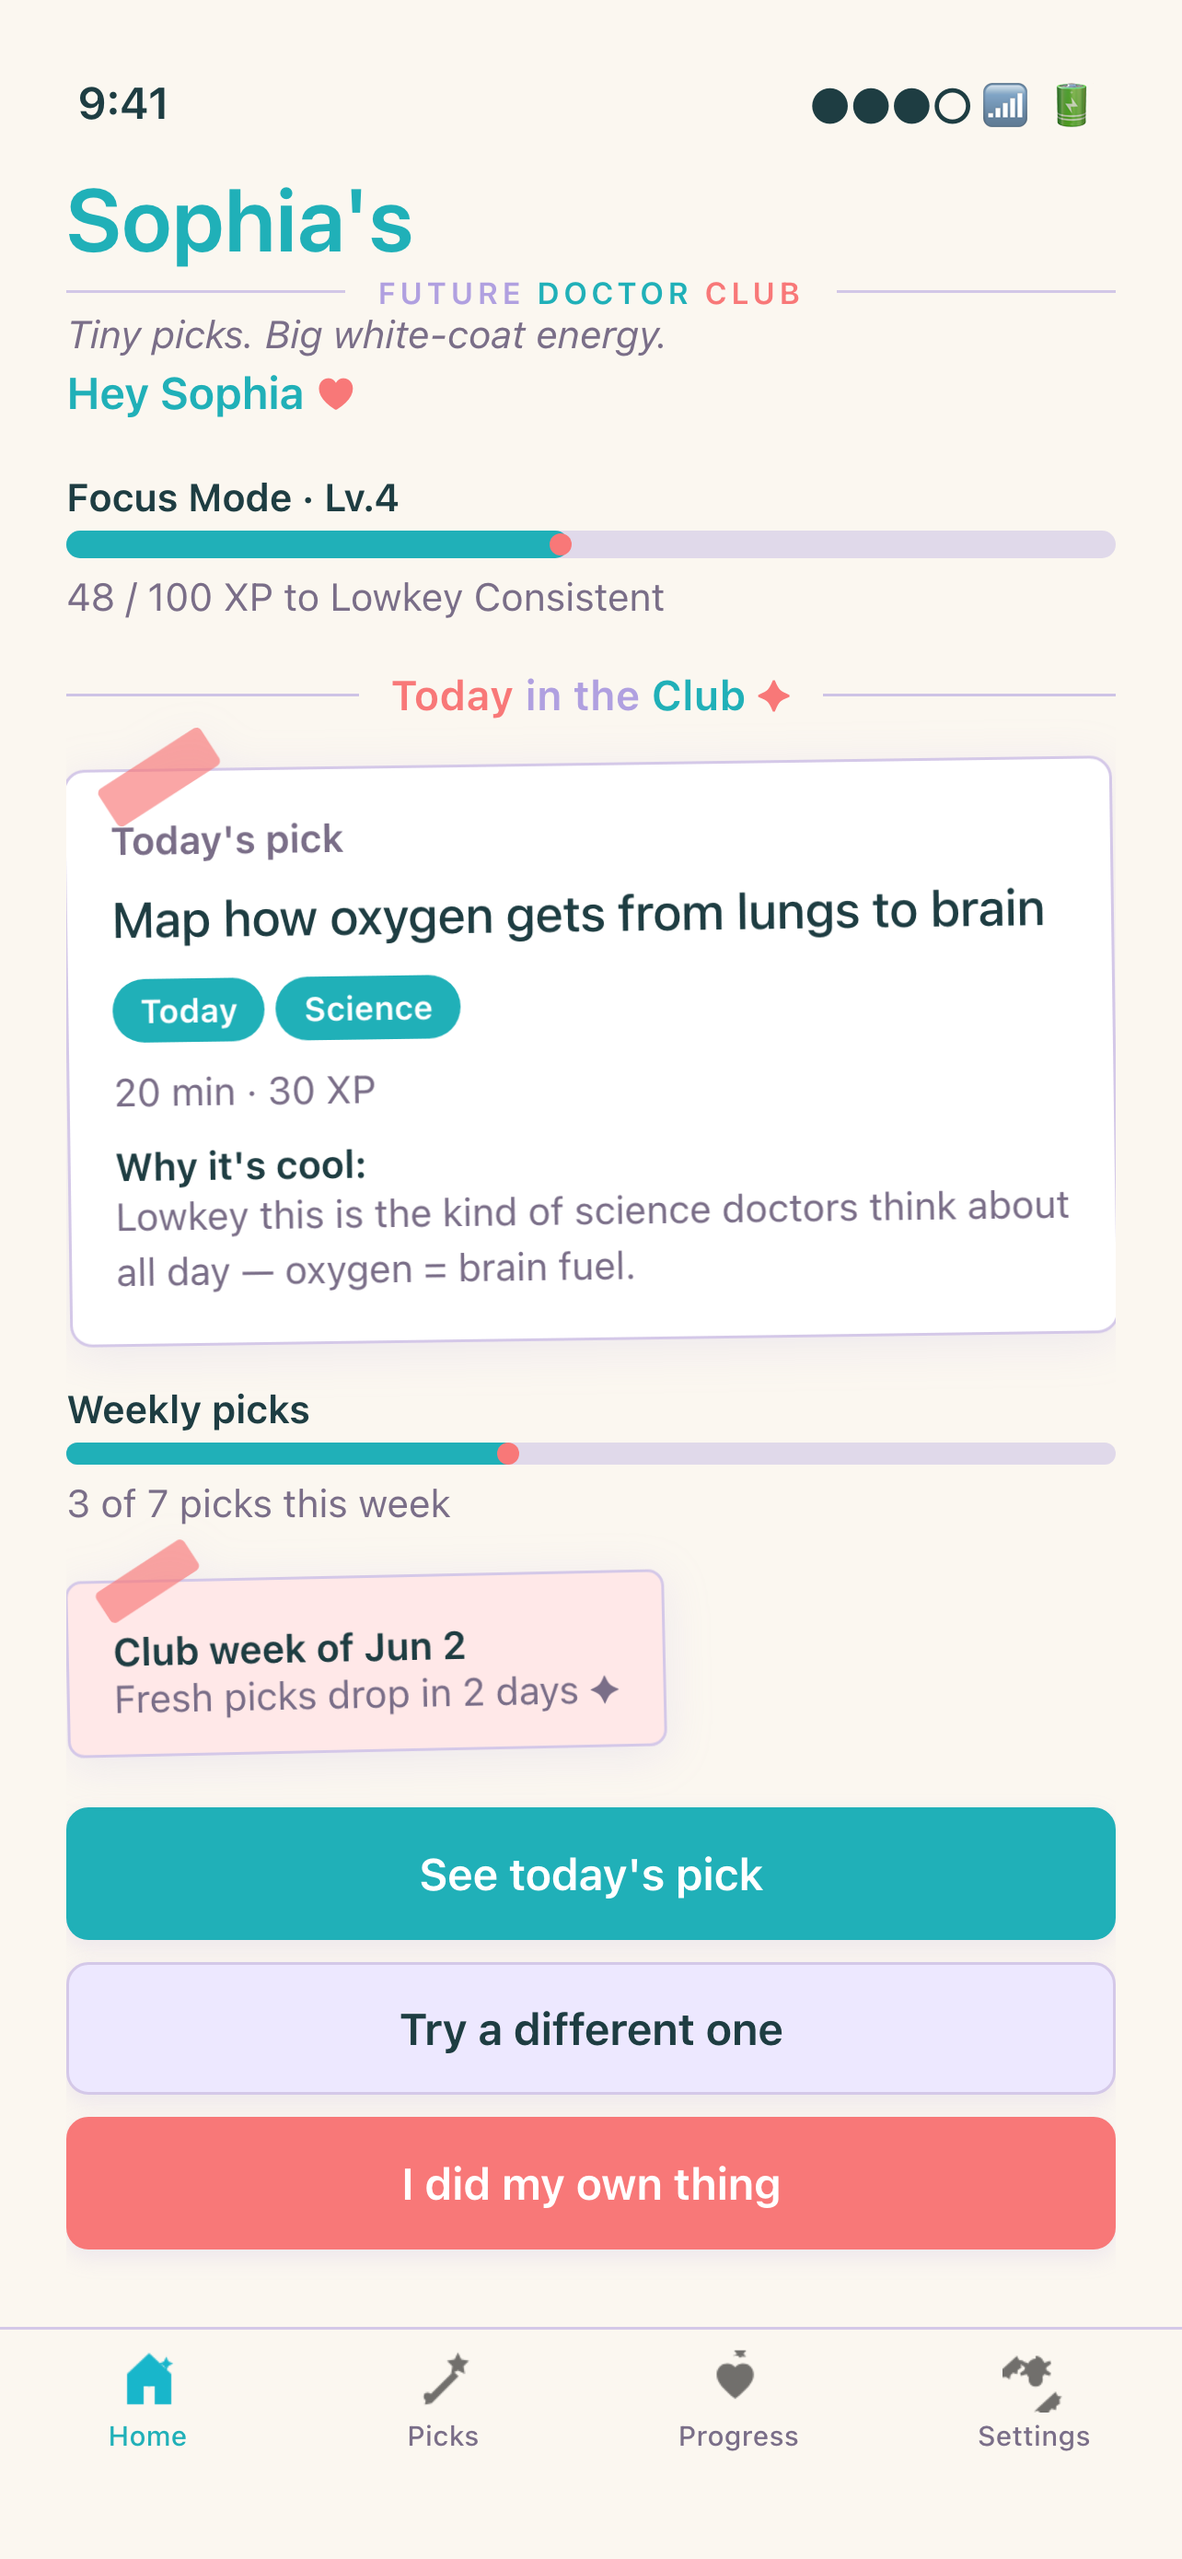
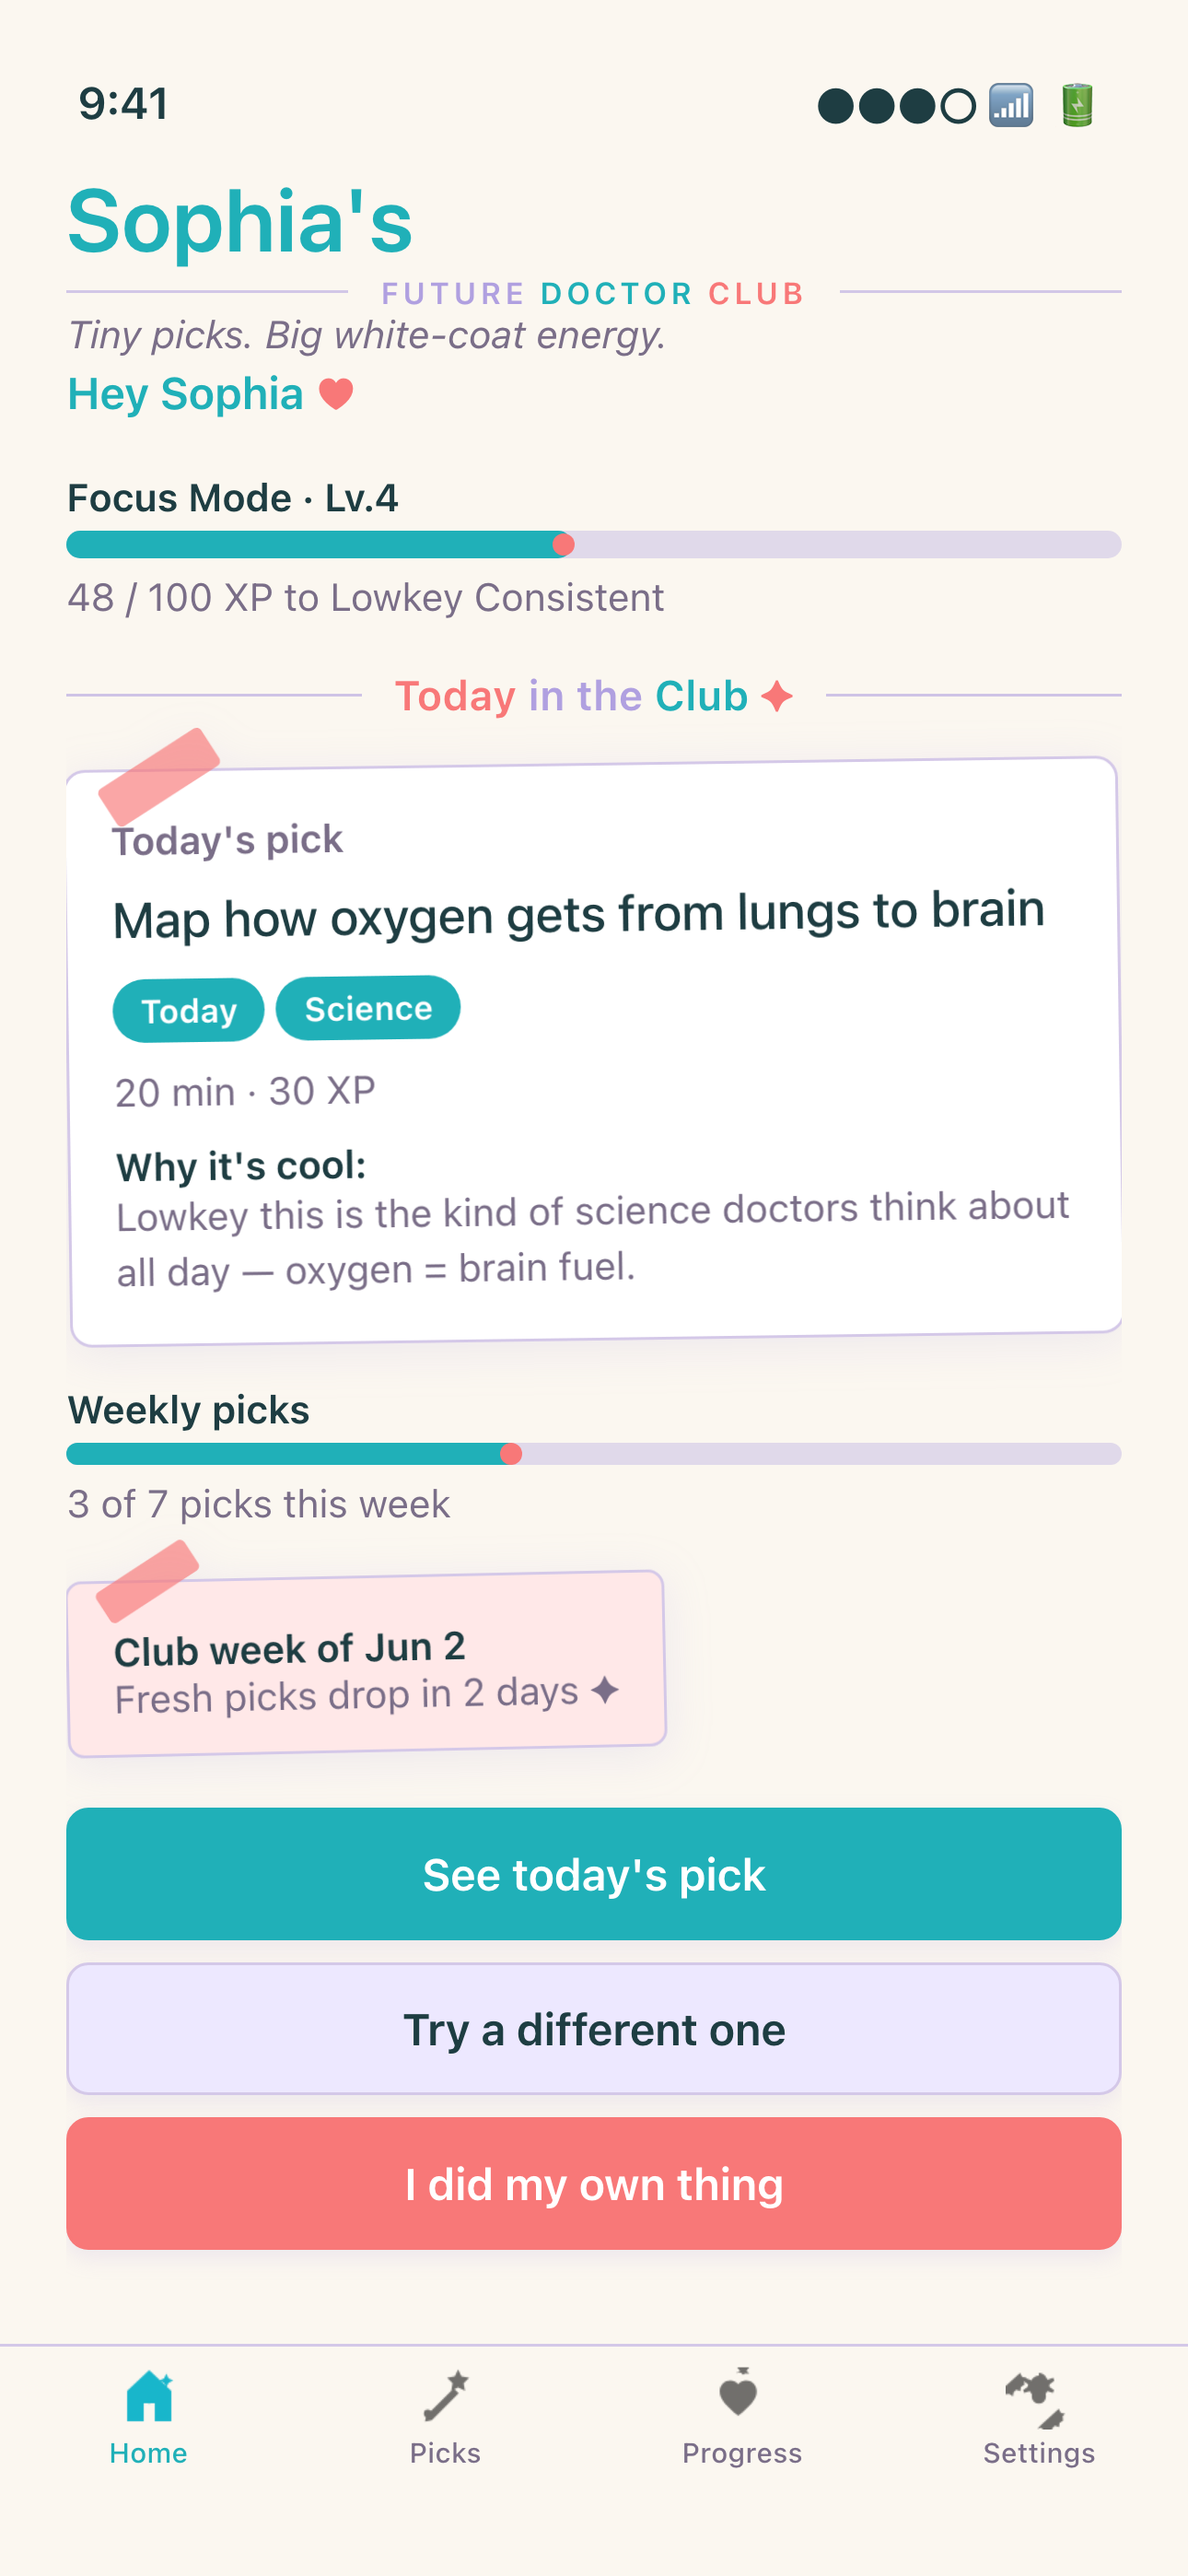
added new projects

diff --git a/src/app/projects/page.tsx b/src/app/projects/page.tsx
@@ -78,6 +78,72 @@ const projectsData = [
     github: "https://github.com/alexandercannon/eurovision.fun",
     live: "https://www.eurovision.fun",
     category: "Mobile"
+  },
+  {
+    id: 8,
+    title: "Sophia's Future Doctor Club",
+    description:
+      "Educational habit-building for aspiring future doctors — weekly picks, club notes, badges, and streaks, all on-device.",
+    tags: ["React Native", "Expo", "SQLite", "Education"],
+    image: "/images/sophias-future-doctor-club.png",
+    github: null,
+    live: "https://apps.apple.com/us/app/sophias-future-doctor-club/id6777174145",
+    category: "Mobile"
+  },
+  {
+    id: 9,
+    title: "VOLUME",
+    description:
+      "A reading companion — log sessions, curate your shelf, and keep streaks without losing the joy of the page.",
+    tags: ["React Native", "Expo", "Supabase", "iOS", "Android"],
+    image: "/images/volume-app.png",
+    github: "https://github.com/AlexanderCannon/volume-reading",
+    live: "https://apps.apple.com/us/app/volume-books/id6769268426",
+    category: "Mobile"
+  },
+  {
+    id: 10,
+    title: "Honey Do",
+    description:
+      "Family planner with shared calendars, assigned tasks, role-based access, and a points system for kids.",
+    tags: ["React Native", "Expo", "Firebase", "Family"],
+    image: "/images/honey-do.png",
+    github: "https://github.com/AlexanderCannon/honey-do-app",
+    live: null,
+    category: "Mobile"
+  },
+  {
+    id: 11,
+    title: "lllanguage",
+    description:
+      "Language learning where real communication generates the curriculum — speak, capture gaps, and reuse what you need.",
+    tags: ["React Native", "Expo", "LLM", "Supabase"],
+    image: "/images/lllanguage.png",
+    github: "https://github.com/AlexanderCannon/lllanguage-web",
+    live: "https://lllanguage.com/",
+    category: "Mobile"
+  },
+  {
+    id: 12,
+    title: "PathRanger",
+    description:
+      "Rust CLI that tracks frequent directories, bookmarks with tags, and fuzzy-jumps you where you actually work.",
+    tags: ["Rust", "CLI", "Shell"],
+    image: "/images/pathranger.png",
+    github: "https://github.com/AlexanderCannon/pathranger",
+    live: null,
+    category: "Developer Tools"
+  },
+  {
+    id: 13,
+    title: "CacheClip",
+    description:
+      "Lightweight Rust clipboard history manager — silent capture, fuzzy search, and instant restore from the terminal.",
+    tags: ["Rust", "CLI", "Clipboard"],
+    image: "/images/cacheclip.png",
+    github: "https://github.com/AlexanderCannon/cacheclip",
+    live: "https://github.com/AlexanderCannon/cacheclip/releases",
+    category: "Developer Tools"
   }
 ];
 

diff --git a/src/app/volume-app/layout.tsx b/src/app/volume-app/layout.tsx
@@ -34,6 +34,9 @@ export default function VolumeAppLayout({ children }: { children: React.ReactNod
             <Link href={`${base}/terms`} className="transition hover:text-[#42C7A1]">
               Terms
             </Link>
+            <Link href={`${base}/go-live`} className="transition hover:text-[#42C7A1]">
+              Go live
+            </Link>
             <Link href="/contact" className="transition hover:text-[#42C7A1]">
               Contact
             </Link>
